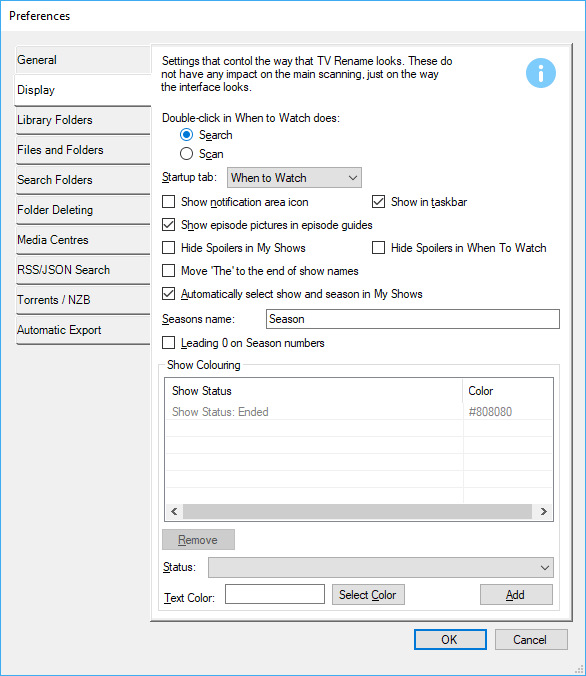
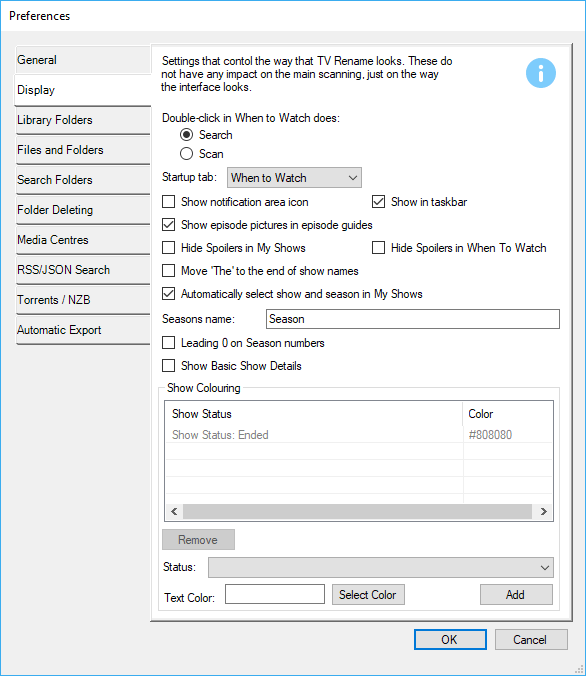
added Show Basic Shows Detail to display preferences

diff --git a/_manual/options/preferences-display.md b/_manual/options/preferences-display.md
@@ -49,6 +49,10 @@ _Default:_ _**Ticked**_
 
 The _Season Name_ and _Leading 0 on Season numbers_ options allow you control of the season text and number display in the _**My Shows**_ tab.
 
+Ticking the _Show Basic Shows Detail_ box  will force TV&nbsp;Rename to revert to the older style display of data in the right hand panel of the _**My Shows**_ tab, which may behave better on smaller screens, slower pc's and slower internet connections.
+
+_Default:_ _**Un-ticked**_
+
 If you have a large catalogue of TV Shows that you want to keep on the system, the _**My&nbsp;Shows**_ tab can become somewhat cluttered. _Show Colouring_ can help by applying some order...
 
 With _Show Colouring_ you can change the color of the text on the left hand pane of the _**My&nbsp;Shows**_ tab depending on the status of the show or the show season.
